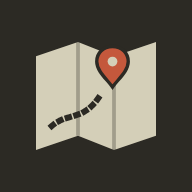
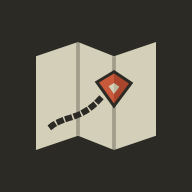
v1.7.3：圖示沿摺痕的菱形、標記圖示視覺置中
Claude-Session: https://claude.ai/code/session_015K3AjX9uqiRfEN2HU6P8sy

Changed region(s): [[0.4375, 0.25, 0.6875, 0.5938], [0.2812, 0.5625, 0.4375, 0.6562]]

diff --git a/js/icons.js b/js/icons.js
@@ -16,7 +16,7 @@
     transit: '<rect x="5.5" y="3" width="13" height="14.5" rx="1"/><path d="M5.5 10.5h13M9 3v7.5M15 3v7.5"/><circle cx="9" cy="14" r=".9" fill="currentColor"/><circle cx="15" cy="14" r=".9" fill="currentColor"/><path d="M8 17.5L6 21M16 17.5l2 3.5"/>',
     bus: '<rect x="4.5" y="3.5" width="15" height="14" rx="1"/><path d="M4.5 12h15M4.5 7h15"/><circle cx="8.3" cy="14.8" r=".9" fill="currentColor"/><circle cx="15.7" cy="14.8" r=".9" fill="currentColor"/><path d="M7 17.5v3M17 17.5v3"/>',
     ferry: '<path d="M3 17c1.5 1.4 3 1.4 4.5 0s3-1.4 4.5 0 3 1.4 4.5 0 3-1.4 4.5 0"/><path d="M5 14l1.5-4h11L19 14M9 10V6.5h6V10M12 4v2.5"/>',
-    hotel: '<path d="M3.5 19.5v-12M3.5 15.5h17v4M3.5 11.5h6.5v4M10 11.5h7.5a3 3 0 0 1 3 3v1"/><rect x="5.3" y="8.7" width="2.6" height="2.6"/>',
+    hotel: '<g transform="translate(0.77 -1.32)"><path d="M3.5 19.5v-12M3.5 15.5h17v4M3.5 11.5h6.5v4M10 11.5h7.5a3 3 0 0 1 3 3v1"/><rect x="5.3" y="8.7" width="2.6" height="2.6"/></g>',
     edit: '<path d="M4 20l1-4.5L15.5 5l3.5 3.5L8.5 19z"/><path d="M13.5 7l3.5 3.5"/>',
     up: '<path d="M6 14l6-6 6 6"/>',
     down: '<path d="M6 10l6 6 6-6"/>',
@@ -40,25 +40,25 @@
     check: '<path d="M4.5 12.5l5 5 10-11"/>',
     ext: '<path d="M13.5 3.5h7v7M20.5 3.5L11 13"/><path d="M18 14v6.5H3.5V6H10"/>',
     // ---- 地點分類 ----
-    c_food: '<path d="M5.5 3v5.5a2.5 2.5 0 0 0 5 0V3M8 3v18"/><path d="M18 21V3c-2.3 1.3-3.5 4-3.5 7.5V13H18"/>',
-    c_cafe: '<path d="M4.5 9h12v5.5a4.5 4.5 0 0 1-4.5 4.5H9a4.5 4.5 0 0 1-4.5-4.5z"/><path d="M16.5 10.5h1.5a2.3 2.3 0 0 1 0 4.6h-1.8M3.5 21h15"/><path d="M8.5 3.5c-.8 1 .8 2 0 3M12.5 3.5c-.8 1 .8 2 0 3"/>',
-    c_bar: '<path d="M4 4h16l-8 9z"/><path d="M12 13v7.5M8 20.5h8M15.5 4l2.5-2"/><circle cx="16.5" cy="7" r="1" fill="currentColor"/>',
-    c_station: '<rect x="6" y="3" width="12" height="13" rx="2"/><path d="M6 9.5h12"/><circle cx="9.3" cy="12.8" r=".6" fill="currentColor"/><circle cx="14.7" cy="12.8" r=".6" fill="currentColor"/><path d="M9 16l-2.5 5M15 16l2.5 5M8 19h8"/>',
-    c_airport: '<path d="M2.8 14.5L21 7.6c.8-.3.9-1.4.1-1.8-.6-.3-1.3-.3-1.9 0L14.5 8 7.6 4.6 5.5 5.5l4.6 4.3-4 1.6-2.4-1.3-1.5.7 2 3z"/><path d="M3 20.5h18"/>',
+    c_food: '<g transform="translate(0.1 1.29)"><path d="M6.5 3v5.5a2 2 0 0 0 4 0V3M8.5 3v18"/><path d="M17.5 21V3c-2 1.1-4 3.6-4 7.4V13.5h4"/></g>',
+    c_cafe: '<g transform="translate(0.32 -0.9)"><path d="M4.5 9h12v5.5a4.5 4.5 0 0 1-4.5 4.5H9a4.5 4.5 0 0 1-4.5-4.5z"/><path d="M16.5 10.5h1.5a2.3 2.3 0 0 1 0 4.6h-1.8M3.5 21h15"/><path d="M8.5 3.5c-.8 1 .8 2 0 3M12.5 3.5c-.8 1 .8 2 0 3"/></g>',
+    c_bar: '<g transform="translate(-0.05 1.79)"><path d="M4 4h16l-8 9z"/><path d="M12 13v7.5M8 20.5h8M15.5 4l2.5-2"/><circle cx="16.5" cy="7" r="1" fill="currentColor"/></g>',
+    c_station: '<rect x="6.5" y="3" width="11" height="13" rx="2"/><path d="M6.5 9.5h11"/><rect x="8.8" y="12" width="1.4" height="1.4" fill="currentColor" stroke="none"/><rect x="13.8" y="12" width="1.4" height="1.4" fill="currentColor" stroke="none"/><path d="M9 16.5L7 21M15 16.5l2 4.5M8.2 19h7.6"/>',
+    c_airport: '<g transform="translate(0.7 -0.28)"><path d="M2.8 14.5L21 7.6c.8-.3.9-1.4.1-1.8-.6-.3-1.3-.3-1.9 0L14.5 8 7.6 4.6 5.5 5.5l4.6 4.3-4 1.6-2.4-1.3-1.5.7 2 3z"/><path d="M3 20.5h18"/></g>',
     c_shopping: '<path d="M4.5 8h15l-1 13h-13z"/><path d="M8.5 10.5V7a3.5 3.5 0 0 1 7 0v3.5"/>',
     c_market: '<path d="M3 9.5L4.5 4h15L21 9.5z"/><path d="M3 9.5a3 3 0 0 0 6 0 3 3 0 0 0 6 0 3 3 0 0 0 6 0"/><path d="M4.5 12v8.5h15V12M9.5 20.5v-5h5v5"/>',
-    c_museum: '<path d="M3 9L12 4l9 5z"/><path d="M6 11.5v6.5M12 11.5v6.5M18 11.5v6.5M3.5 21h17M4.5 18.5h15"/>',
+    c_museum: '<g transform="translate(0.15 -0.91)"><path d="M3 9L12 4l9 5z"/><path d="M6 11.5v6.5M12 11.5v6.5M18 11.5v6.5M3.5 21h17M4.5 18.5h15"/></g>',
     c_temple: '<path d="M2.5 5.5c3 .8 6 1.2 9.5 1.2s6.5-.4 9.5-1.2"/><path d="M4.5 10h15M6.5 6.5V21M17.5 6.5V21M12 6.7V10"/>',
-    c_castle: '<path d="M4 21V10h3V7.5h2.5V10h5V7.5H17V10h3v11z"/><path d="M10 21v-4.5a2 2 0 0 1 4 0V21M12 7.5V3l3.5 1.5L12 6"/>',
+    c_castle: '<g transform="translate(0.07 -0.42)"><path d="M4 21V10h3V7.5h2.5V10h5V7.5H17V10h3v11z"/><path d="M10 21v-4.5a2 2 0 0 1 4 0V21M12 7.5V3l3.5 1.5L12 6"/></g>',
     c_park: '<path d="M12 21v-6.5"/><path d="M12 3L6 12h3l-3.5 4.5h13L15 12h3z"/>',
-    c_beach: '<path d="M3 20c1.5 1.3 3 1.3 4.5 0s3-1.3 4.5 0 3 1.3 4.5 0 3-1.3 4.5 0"/><path d="M12.5 16.5L9 6"/><path d="M3.5 8.5a8 8 0 0 1 13-3.5z"/>',
-    c_view: '<path d="M12 2.5v3M9 21l1.8-15.5h2.4L15 21M8 21h8M10.2 11h3.6M9.6 15.5h4.8"/><path d="M5 8.5a7.5 7.5 0 0 1 3-3.5M19 8.5a7.5 7.5 0 0 0-3-3.5"/>',
-    c_landmark: '<path d="M5.5 21V3.5"/><path d="M5.5 4.5h12l-2.5 4 2.5 4h-12"/><path d="M3 21h6"/>',
-    c_theme: '<circle cx="12" cy="10" r="7"/><path d="M12 3v14M5 10h14M7 5l10 10M17 5L7 15"/><path d="M8 21l4-4 4 4z"/>',
-    c_zoo: '<circle cx="7" cy="9" r="1.9"/><circle cx="11" cy="5.8" r="1.9"/><circle cx="15.5" cy="6.5" r="1.9"/><circle cx="18.5" cy="10.5" r="1.9"/><path d="M12.5 11c-2.6 0-5.5 3.4-5.5 6.3 0 1.9 1.5 2.7 3 2.2 1.5-.4 2.8-.4 4.2.1 1.6.5 3-.4 3-2.2 0-3-2.6-6.4-4.7-6.4z"/>',
+    c_beach: '<g transform="translate(0.78 0.19)"><path d="M3 20c1.5 1.3 3 1.3 4.5 0s3-1.3 4.5 0 3 1.3 4.5 0 3-1.3 4.5 0"/><path d="M12.5 16.5L9 6"/><path d="M3.5 8.5a8 8 0 0 1 13-3.5z"/></g>',
+    c_view: '<g transform="translate(0.15 0.29)"><path d="M12 2.5v3M9 21l1.8-15.5h2.4L15 21M8 21h8M10.2 11h3.6M9.6 15.5h4.8"/><path d="M5 8.5a7.5 7.5 0 0 1 3-3.5M19 8.5a7.5 7.5 0 0 0-3-3.5"/></g>',
+    c_landmark: '<g transform="translate(1.84 0.45)"><path d="M5.5 21V3.5"/><path d="M5.5 4.5h12l-2.5 4 2.5 4h-12"/><path d="M3 21h6"/></g>',
+    c_theme: '<g transform="translate(0.15 0.31)"><circle cx="12" cy="10" r="7"/><path d="M12 3v14M5 10h14M7 5l10 10M17 5L7 15"/><path d="M8 21l4-4 4 4z"/></g>',
+    c_zoo: '<g transform="translate(-0.53 0.6)"><circle cx="7" cy="9" r="1.9"/><circle cx="11" cy="5.8" r="1.9"/><circle cx="15.5" cy="6.5" r="1.9"/><circle cx="18.5" cy="10.5" r="1.9"/><path d="M12.5 11c-2.6 0-5.5 3.4-5.5 6.3 0 1.9 1.5 2.7 3 2.2 1.5-.4 2.8-.4 4.2.1 1.6.5 3-.4 3-2.2 0-3-2.6-6.4-4.7-6.4z"/></g>',
     c_onsen: '<path d="M3.5 14.5c0 3.5 3.8 6 8.5 6s8.5-2.5 8.5-6"/><path d="M3.5 14.5h17"/><path d="M8 11.5c-1.3-1.5 1.3-2.5 0-4.2S9.3 4.8 8 3.5M12 11.5c-1.3-1.5 1.3-2.5 0-4.2S13.3 4.8 12 3.5M16 11.5c-1.3-1.5 1.3-2.5 0-4.2S17.3 4.8 16 3.5"/>',
-    c_hotel: '<path d="M3.5 19.5v-12M3.5 15.5h17v4M3.5 11.5h6.5v4M10 11.5h7.5a3 3 0 0 1 3 3v1"/><rect x="5.3" y="8.7" width="2.6" height="2.6"/>',
-    c_other: '<path d="M12 21s-6.5-6.2-6.5-11a6.5 6.5 0 0 1 13 0c0 4.8-6.5 11-6.5 11z"/><circle cx="12" cy="10" r="2.3"/>',
+    c_hotel: '<g transform="translate(0.77 -1.32)"><path d="M3.5 19.5v-12M3.5 15.5h17v4M3.5 11.5h6.5v4M10 11.5h7.5a3 3 0 0 1 3 3v1"/><rect x="5.3" y="8.7" width="2.6" height="2.6"/></g>',
+    c_other: '<g transform="translate(0.15 0.37)"><path d="M12 21s-6.5-6.2-6.5-11a6.5 6.5 0 0 1 13 0c0 4.8-6.5 11-6.5 11z"/><circle cx="12" cy="10" r="2.3"/></g>',
     // ---- 其他新圖示 ----
     done: '<rect x="3.5" y="3.5" width="17" height="17"/><path d="M7.5 12.5l3 3 6-7"/>',
     undone: '<rect x="3.5" y="3.5" width="17" height="17"/>',

diff --git a/css/app.css b/css/app.css
@@ -62,11 +62,11 @@ body.picking #map { cursor: crosshair; }
 .pin { position: relative; width: 32px; height: 32px; border-radius: 50%; background: var(--c); border: 2px solid #f6f1e2; box-shadow: 0 2px 6px rgba(0,0,0,.35); display: flex; align-items: center; justify-content: center; }
 .pin::before { content: ""; position: absolute; left: 50%; bottom: -8px; width: 0; height: 0; margin-left: -6px; border: 6px solid transparent; border-top: 7px solid #f6f1e2; border-bottom: 0; }
 .pin::after { content: ""; position: absolute; left: 50%; bottom: -4.5px; width: 0; height: 0; margin-left: -4px; border: 4px solid transparent; border-top: 5px solid var(--c); border-bottom: 0; }
-.pin span { display: flex; align-items: center; justify-content: center; color: #fff; font: 700 12px/1 var(--mono); }
-.pin .ic { width: 19px; height: 19px; color: #fff; stroke-width: 2.1; }
+.pin span { position: absolute; inset: 0; color: #fff; font: 700 12px/1 var(--mono); }
+.pin .ic { position: absolute; left: 50%; top: 50%; width: 20px; height: 20px; margin: -10px 0 0 -10px; color: #fff; stroke-width: 2; vertical-align: top; }
 .pin.dim { opacity: .3; }
 .pin.base { border-radius: 7px; background: #2f2c25; --c: #2f2c25; }
-.pin.base .ic { width: 18px; height: 18px; }
+.pin.base .ic { width: 18px; height: 18px; margin: -9px 0 0 -9px; }
 .leaflet-popup-content-wrapper, .leaflet-popup-tip { background: var(--card); color: var(--ink); border-radius: 0; box-shadow: 0 3px 14px rgba(0,0,0,.3); }
 .leaflet-popup-content-wrapper { border: 1px solid var(--line); }
 .leaflet-popup-content { margin: 12px 14px; font-family: var(--sans); }

diff --git a/js/app.js b/js/app.js
@@ -7,7 +7,7 @@
   const catIc = (c) => I('c_' + (C.CATS[c] ? c : 'other'));
   const dc = (d) => { const pal = (THEME_PAL[activeTheme()] || C.PALETTE); return d > 0 ? pal[(d - 1) % pal.length] : 'var(--muted)'; };
   const stepIc = (e) => I(/🚌|🚎/.test(e) ? 'bus' : /⛴/.test(e) ? 'ferry' : 'transit');
-  const VERSION = '1.7.2';
+  const VERSION = '1.7.3';
   const STORE_KEY = 'tripmap.v1';
   const $ = (s, el) => (el || document).querySelector(s);
   const esc = (s) => String(s == null ? '' : s).replace(/[&<>"']/g, (c) => ({ '&': '&amp;', '<': '&lt;', '>': '&gt;', '"': '&quot;', "'": '&#39;' }[c]));

diff --git a/sw.js b/sw.js
@@ -1,5 +1,5 @@
 /* Service worker：程式離線可開、看過的地圖圖磚離線可看 */
-const VERSION = 'v1.7.2';
+const VERSION = 'v1.7.3';
 const SHELL = 'shell-' + VERSION;
 const TILES = 'tiles-v1';
 const MAX_TILES = 3000;

diff --git a/CHANGELOG.md b/CHANGELOG.md
@@ -1,5 +1,9 @@
 # 更新紀錄
 
+## 1.7.3 — 2026-11-20
+- App 圖示：改回菱形標記，縮小並沿著地圖摺痕彎折（左右兩半各貼一片紙、右半較暗）
+- 地圖標記圖示置中：圖示改用絕對定位與偶數尺寸（避免 Safari 半像素偏移），19 個分類圖示依「外框中心＋筆畫重心」做視覺置中；重畫左右對稱的餐廳刀叉與車站
+
 ## 1.7.2 — 2026-11-20
 - 地圖標記改為正向圓形＋小尾巴：分類圖示不再被菱形框擠壓變形，線條在小尺寸加粗
 - 拿掉標記旁擋畫面的順序號碼；放大到街道層級時，號碼改顯示在地名標籤前
